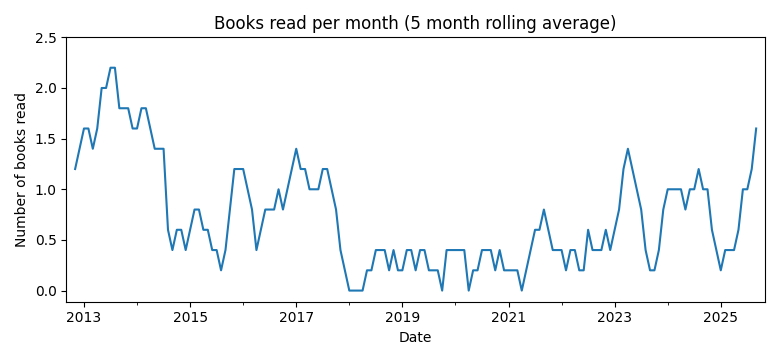
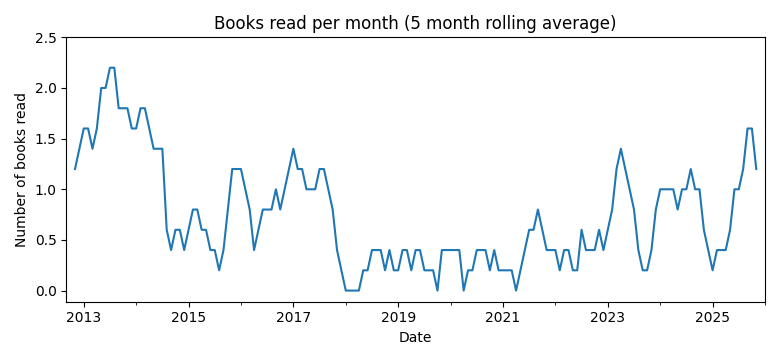
horus 3

diff --git a/README.md b/README.md
@@ -3,13 +3,16 @@
 I started this log on October 30th, 2012. I list all books I read.  
 
 ### Statistics
-Total number of books read: 119  
-Books per month: 0.75 (2012/9 to 2025/11)
+Total number of books read: 120  
+Books per month: 0.75 (2012/9 to 2025/12)
 
 ![Books recorded by year](book_recorded.png)
 ![Books read per month](book_read.png)
 
 ### List of books
+*Galaxy in Flames (Horus Heresy)*, Ben Counter  
+Finished: 2025.12.30
+
 *False Gods (Horus Heresy)*, Graham McNeill  
 Finished: 2025.11.28
 
